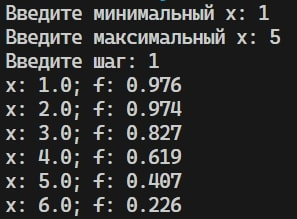
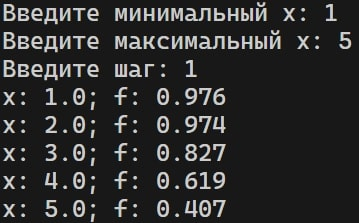
Fix task 5 for the teacher

diff --git a/4th semester/ProjectPractice/projectpractice/task5/tabulation.py b/4th semester/ProjectPractice/projectpractice/task5/tabulation.py
@@ -1,16 +1,73 @@
+import docx
+import docx.shared
+import openpyxl
+
+from math import ceil
+
 from functions import calculate
 
 
 def tabulate(x_min, x_max, x_step, y=1, a=1, b=1):
-    count = int((x_max - x_min) // x_step) + 1
+    document = docx.Document()
 
-    x_values, f_values = [], []
+    document.add_paragraph("Задание")
+    document.add_paragraph("Написать программу, табулирующую кусочно-заданную функцию.")
+    document.add_paragraph(
+        "Для выполнения задания требуется реализовать два модуля: один для табулирования, "
+        + "другой для кусочно-заданной функции. В модуле кусочно-заданной функции должна быть "
+        + "функция calculate, которая должна вычислять значение кусочно-заданной функции."
+    )
+    document.add_paragraph(
+        "В основной части программы следует реализовать создание документа Microsoft Word "
+        + "и рабочей книги Microsoft Excel. "
+        + "В созданный документ программа должна записывать задание, "
+        + "результаты работы программы (JPEG-изображение), "
+        + "а также таблицу с результатами табулирования функции. "
+        + "В рабочую книгу требуется записать результаты табулирования функции."
+    )
+    document.add_paragraph("Результаты табулирования также следует вывести в стандартный поток вывода.")
+    document.add_paragraph(
+        "В конце программы требуется считать созданную рабочую книгу и вывести значения, "
+        + "записанные в её ячейках в стандартный поток вывода."
+    )
+    document.add_paragraph("Конечный результат следует обрезать до 3-х знаков (за исключением записи в Excel).")
+    document.add_paragraph("Продемонстрировать результат выполнения программы — вывод во всех файлах и в стандартный поток вывода.")
+    document.add_picture("result.jpg", width=docx.shared.Cm(10))
 
+    document_table = document.add_table(1, 2, "Table Grid")
+    document_table.rows[0].cells[0].text = "X"
+    document_table.rows[0].cells[1].text = "F"
+
+    workbook = openpyxl.Workbook()
+    worksheet = workbook.active
+
+    worksheet.cell(1, 1).value = "X"
+    worksheet.cell(1, 2).value = "F"
+
+    count = ceil((x_max - x_min) / x_step)
     for i in range(count + 1):
         current_x = x_min + x_step * i
-        x_values.append(current_x)
-
         current_f = calculate(current_x, y, a, b)
-        f_values.append(current_f)
 
-    return x_values, f_values
+        formatted_x = str(current_x)
+        formatted_f = f"{current_f:.3f}"
+
+        print(f"x: {formatted_x}; f: {formatted_f}")
+
+        current_document_table_row = document_table.add_row()
+        current_document_table_row.cells[0].text = formatted_x
+        current_document_table_row.cells[1].text = formatted_f
+
+        worksheet.cell(i + 2, 1).value = current_x
+        worksheet.cell(i + 2, 2).value = current_f
+
+    document.save("result.docx")
+    workbook.save("result.xlsx")
+
+    workbook = openpyxl.load_workbook("result.xlsx")
+    worksheet = workbook.active
+
+    for row in worksheet.iter_rows():
+        for cell in row:
+            print(cell.value, end="\t")
+        print()

diff --git a/4th semester/ProjectPractice/projectpractice/task5/main.py b/4th semester/ProjectPractice/projectpractice/task5/main.py
@@ -1,74 +1,7 @@
-import docx
-import docx.shared
-import openpyxl
-
 from tabulation import tabulate
 
 x_min = float(input("Введите минимальный x: "))
 x_max = float(input("Введите максимальный x: "))
 x_step = float(input("Введите шаг: "))
 
-document = docx.Document()
-
-document.add_paragraph("Задание")
-document.add_paragraph("Написать программу, табулирующую кусочно-заданную функцию.")
-document.add_paragraph(
-    "Для выполнения задания требуется реализовать два модуля: один для табулирования, "
-    + "другой для кусочно-заданной функции. В модуле кусочно-заданной функции должна быть "
-    + "функция calculate, которая должна вычислять значение кусочно-заданной функции."
-)
-document.add_paragraph(
-    "В основной части программы следует реализовать создание документа Microsoft Word "
-    + "и рабочей книги Microsoft Excel. "
-    + "В созданный документ программа должна записывать задание, "
-    + "результаты работы программы (JPEG-изображение), "
-    + "а также таблицу с результатами табулирования функции. "
-    + "В рабочую книгу требуется записать результаты табулирования функции."
-)
-document.add_paragraph("Результаты табулирования также следует вывести в стандартный поток вывода.")
-document.add_paragraph(
-    "В конце программы требуется считать созданную рабочую книгу и вывести значения, "
-    + "записанные в её ячейках в стандартный поток вывода."
-)
-document.add_paragraph("Конечный результат следует обрезать до 3-х знаков (за исключением записи в Excel).")
-document.add_paragraph("Продемонстрировать результат выполнения программы — вывод во всех файлах и в стандартный поток вывода.")
-document.add_picture("result.jpg", width=docx.shared.Cm(10))
-
-document_table = document.add_table(1, 2, "Table Grid")
-document_table.rows[0].cells[0].text = "X"
-document_table.rows[0].cells[1].text = "F"
-
-workbook = openpyxl.Workbook()
-worksheet = workbook.active
-
-worksheet.cell(1, 1).value = "X"
-worksheet.cell(1, 2).value = "F"
-
-x_values, f_values = tabulate(x_min, x_max, x_step)
-
-for i in range(len(x_values)):
-    x = x_values[i]
-    f = f_values[i]
-
-    formatted_x = str(x)
-    formatted_f = f"{f:.3f}"
-
-    print(f"x: {formatted_x}; f: {formatted_f}")
-
-    current_document_table_row = document_table.add_row()
-    current_document_table_row.cells[0].text = formatted_x
-    current_document_table_row.cells[1].text = formatted_f
-
-    worksheet.cell(i + 2, 1).value = x
-    worksheet.cell(i + 2, 2).value = f
-
-document.save("result.docx")
-workbook.save("result.xlsx")
-
-workbook = openpyxl.load_workbook("result.xlsx")
-worksheet = workbook.active
-
-for row in worksheet.iter_rows():
-    for cell in row:
-        print(cell.value, end="\t")
-    print()
+tabulate(x_min, x_max, x_step)
